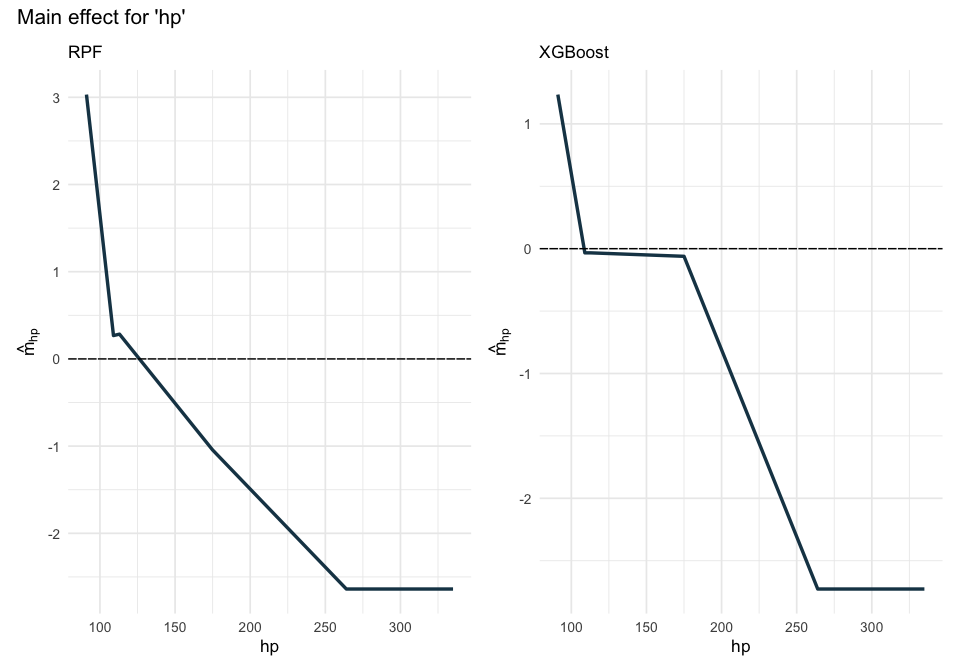
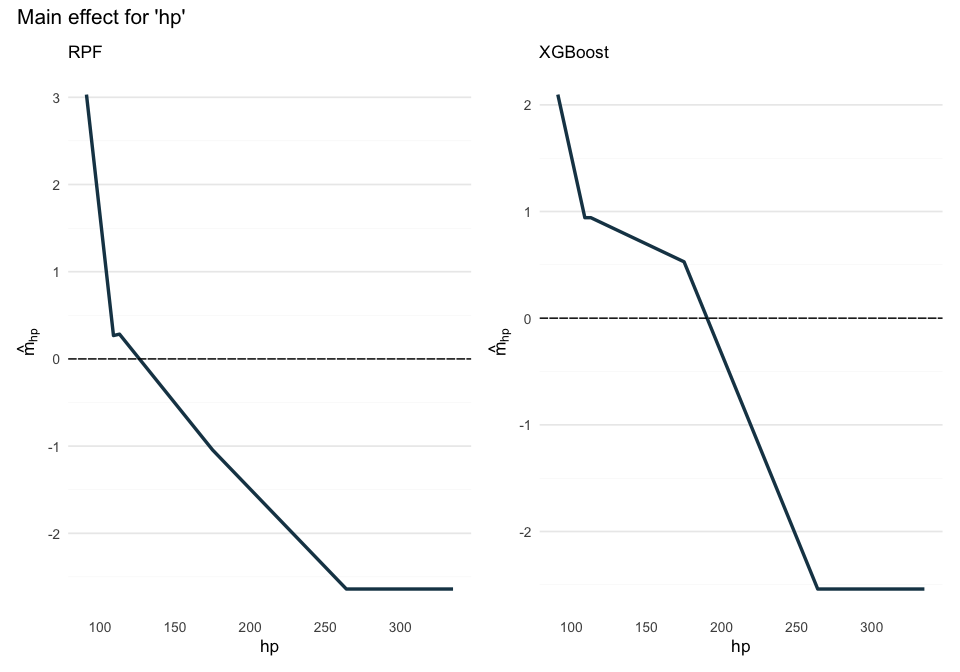
Update README.Rmd with fixed PMLR URL, CRAN (non-)badge, minor tweaks

diff --git a/README.md b/README.md
@@ -8,8 +8,10 @@
 [![R-CMD-check](https://github.com/PlantedML/glex/actions/workflows/R-CMD-check.yaml/badge.svg)](https://github.com/PlantedML/glex/actions/workflows/R-CMD-check.yaml)
 [![Codecov test
 coverage](https://codecov.io/gh/PlantedML/glex/branch/master/graph/badge.svg)](https://app.codecov.io/gh/PlantedML/glex)
-[![glex status
+[![glex r-universe status
 badge](https://plantedml.r-universe.dev/badges/glex)](https://plantedml.r-universe.dev/glex)
+[![CRAN
+status](https://www.r-pkg.org/badges/version/glex)](https://CRAN.R-project.org/package=glex)
 <!-- badges: end -->
 
 Global explanations for tree-based models by decomposing regression or  
@@ -22,7 +24,8 @@ XGBoost.
 See the accompanying paper for more details and exact definitions:
 “Unifying local and global model explanations by functional
 decomposition of low dimensional structures”
-([arxiv](https://arxiv.org/abs/2208.06151), [PMLR](https://proceedings.mlr.press/v206/hiabu23a.html)).
+([arxiv](https://arxiv.org/abs/2208.06151),
+[PMLR](https://proceedings.mlr.press/v206/hiabu23a.html)).
 
 ## Installation
 
@@ -30,8 +33,8 @@ You can install the development version of glex from
 [GitHub](https://github.com/) with:
 
 ``` r
-# install.packages("remotes")
-remotes::install_github("PlantedML/glex")
+# install.packages("pak")
+pak::pak("PlantedML/glex")
 ```
 
 or from [r-universe](https://plantedml.r-universe.dev/packages) with
@@ -64,8 +67,8 @@ library(xgboost)
 # Visualization
 library(ggplot2)
 library(patchwork)
-theme_set(theme_minimal(base_size = 13))
 
+theme_set(theme_glex())
 set.seed(21)
 ```
 
@@ -152,11 +155,11 @@ vi_rpf[1:5, c("degree", "term", "m")]
 vi_xgb[1:5, c("degree", "term", "m")]
 #>    degree   term         m
 #>     <int> <char>     <num>
-#> 1:      1     hp 1.1360711
-#> 2:      1     wt 1.0361386
-#> 3:      1   disp 0.6661451
-#> 4:      1    cyl 0.5727933
-#> 5:      1   qsec 0.2129094
+#> 1:      1     hp 1.5980083
+#> 2:      1    cyl 0.5762864
+#> 3:      1     wt 0.5024355
+#> 4:      1   qsec 0.2867502
+#> 5:      2 cyl:hp 0.1098818
 ```
 
 The output additionally contains the degree of interaction, which can be
@@ -167,14 +170,13 @@ terms”:
 
 ``` r
 p_vi1 <- autoplot(vi_rpf, threshold = .05) + 
-  labs(title = NULL, tag = "RPF")
+  labs(title = NULL, subtitle = "RPF")
 
 p_vi2 <- autoplot(vi_xgb, threshold = .05) + 
-  labs(title = NULL, tag = "XGBoost")
+  labs(title = NULL, subtitle = "XGBoost")
 
 p_vi1 + p_vi2 +
-  plot_annotation(title = "Variable importance scores by term") & 
-  theme(plot.tag.position = "top")
+  plot_annotation(title = "Variable importance scores by term")
 ```
 
 <img src="man/figures/README-glex_vi-plot-1.png" width="100%" />
@@ -186,14 +188,13 @@ a given model.
 
 ``` r
 p_vi1 <- autoplot(vi_rpf, by_degree = TRUE) + 
-  labs(title = NULL, tag = "RPF")
+  labs(title = NULL, subtitle = "RPF")
 
 p_vi2 <- autoplot(vi_xgb, by_degree = TRUE) + 
-  labs(title = NULL, tag = "XGBoost")
+  labs(title = NULL, subtitle = "XGBoost")
 
 p_vi1 + p_vi2 +
-  plot_annotation(title = "Variable importance scores by degree") & 
-  theme(plot.tag.position = "top")
+  plot_annotation(title = "Variable importance scores by degree") 
 ```
 
 <img src="man/figures/README-glex_vi-plot-by-degree-1.png" width="100%" />
@@ -209,8 +210,7 @@ p1 <- autoplot(glex_rpf, "hp") + labs(subtitle = "RPF")
 p2 <- autoplot(glex_xgb, "hp") + labs(subtitle = "XGBoost")
 
 p1 + p2 + 
-  plot_annotation(title = "Main effect for 'hp'") & 
-  theme(plot.tag.position = "top")
+  plot_annotation(title = "Main effect for 'hp'")
 ```
 
 <img src="man/figures/README-plot_components-1.png" width="100%" />
@@ -221,8 +221,7 @@ p1 <- autoplot(glex_rpf, c("hp", "wt")) + labs(subtitle = "RPF")
 p2 <- autoplot(glex_xgb, c("hp", "wt")) + labs(subtitle = "XGBoost")
 
 p1 + p2 + 
-  plot_annotation(title = "Two-way effects for 'hp' and 'wt'") & 
-  theme(plot.tag.position = "top")
+  plot_annotation(title = "Two-way effects for 'hp' and 'wt'")
 ```
 
 <img src="man/figures/README-plot_components-2.png" width="100%" />
@@ -254,8 +253,7 @@ p1 <- glex_explain(glex_rpf, id = 2, predictors = "hp", max_interaction = 2) +
 p2 <- glex_explain(glex_xgb, id = 2, predictors = "hp", max_interaction = 2) + 
   labs(tag = "XGBoost")
 
-p1 + p2 & theme(plot.tag.position = "bottom") & 
-  theme(plot.tag.position = "bottom")
+p1 + p2 & theme(plot.tag.position = "bottom")
 ```
 
 <img src="man/figures/README-glex_explain-1.png" width="100%" />
